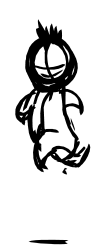
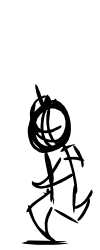
animation fix

Changed region(s): [[0.15, 0.084, 0.93, 0.98]]

diff --git a/game.js b/game.js
@@ -145,18 +145,18 @@ Player.prototype.draw = function()
 
   }
 
-  if (this.AniState > (limit*10)) {
+  if (this.AniState > (limit*5)) {
     this.AniState = 1;
   }
 
-  main_ctx.drawImage(main_sprite[this.facing][this.Animation][1+Math.floor((this.AniState-1)/10)], this.X, this.Y);
+  main_ctx.drawImage(main_sprite[this.facing][this.Animation][1+Math.floor((this.AniState-1)/5)], this.X, this.Y);
   this.AniState++;
 
   document.getElementById('x').innerHTML = this.X;
   document.getElementById('y').innerHTML = this.Y;
   document.getElementById('animation').innerHTML = this.Animation;
   document.getElementById('facing').innerHTML = this.facing;
-  document.getElementById('aframe').innerHTML = 1+Math.floor((this.AniState-1)/10);
+  document.getElementById('aframe').innerHTML = 1+Math.floor((this.AniState-1)/5);
 };
 Player.prototype.check_keys = function()
 {
